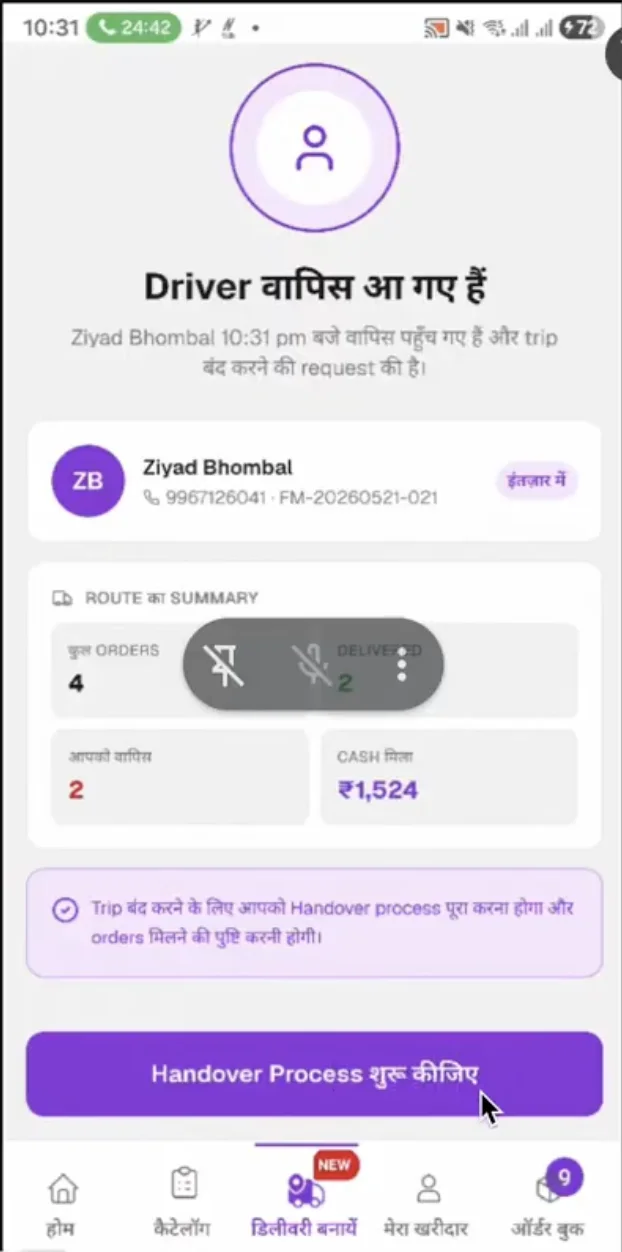
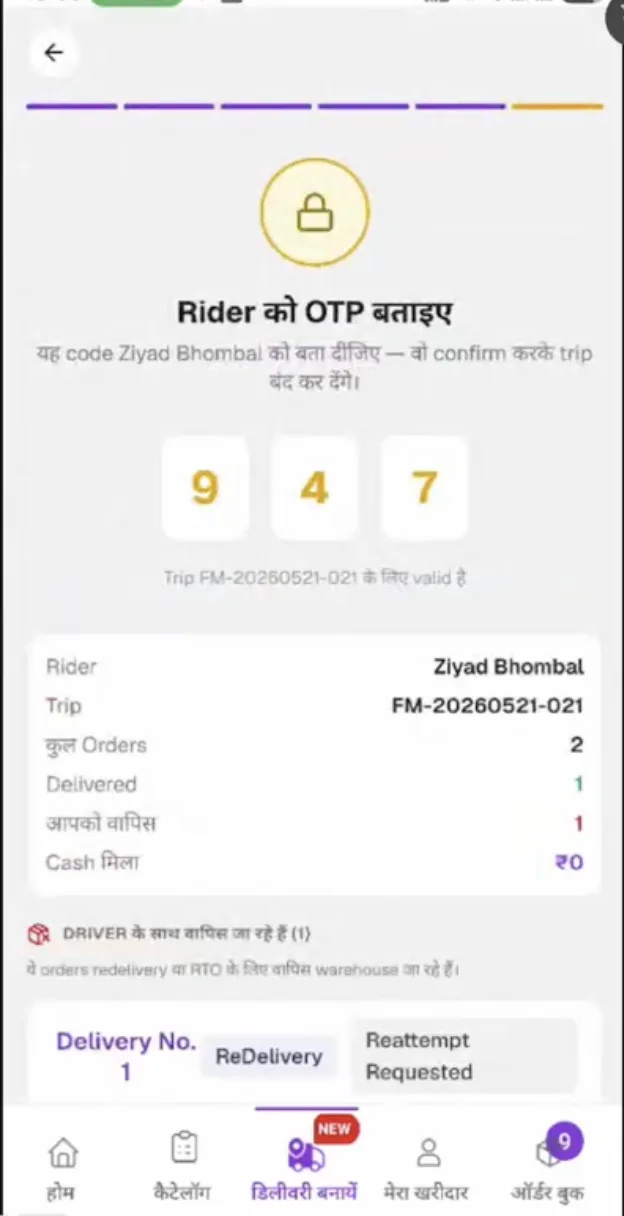
DAAS screens: correct the route and handover captions, add the trip-close OTP and the ops dashboard

diff --git a/src/content/projects.ts b/src/content/projects.ts
@@ -238,10 +238,12 @@ export const projects: Project[] = [
       { src: "/screens/daas-booked.webp", kind: "phone", alt: "Delivery booked confirmation", caption: "Booked: the day, the vehicle, the pickup — confirmed in the app" },
       { src: "/screens/daas-upload-bills.webp", kind: "phone", alt: "Upload bills to process orders", caption: "Upload the invoices — the drop list builds itself" },
       { src: "/screens/daas-driver-bill.webp", kind: "phone", alt: "Driver photographing an invoice", caption: "Driver app — photograph the bill; 17,678 invoices were read this way" },
-      { src: "/screens/daas-driver-drop.webp", kind: "phone", alt: "Driver's drop card with call and directions", caption: "Each drop with a call button, directions, and the amount to collect" },
-      { src: "/screens/daas-driver-otp.webp", kind: "phone", alt: "Handover OTP", caption: "A code both sides hold at every handover — proof on every drop, not only the disputed ones" },
+      { src: "/screens/daas-driver-drop.webp", kind: "phone", alt: "Driver's route: the day's stops in order", caption: "The driver's route: the day's stops in order, re-orderable by drag, a call button for each shop" },
       { src: "/screens/daas-driver-cash.webp", kind: "phone", alt: "Collect payment, cash or online", caption: "Cash, UPI or cheque collected at the shop, matched to the bill" },
-      { src: "/screens/daas-driver-reasons.webp", kind: "phone", alt: "Why is this order undelivered — closed list of reasons", caption: "A failed drop becomes information: a closed list of reasons, tallied for the distributor's sales team" },
+      { src: "/screens/daas-driver-reasons.webp", kind: "phone", alt: "Why is this order undelivered — closed list of reasons", caption: "A failed drop becomes information: a closed list of reasons — shop closed, customer not available, refused, wrong address, payment not ready — tallied for the distributor's sales team" },
+      { src: "/screens/daas-driver-handover.webp", kind: "phone", alt: "End of trip: driver back, route summary, start handover", caption: "End of the trip: orders delivered, orders coming back, cash collected — and the handover to the distributor begins" },
+      { src: "/screens/daas-driver-otp.webp", kind: "phone", alt: "Rider ko OTP bataiye — the code the distributor reads to the driver", caption: "Closing the trip: a code the distributor reads to the driver, so the handover is confirmed by both sides" },
+      { src: "/screens/daas-ops-dashboard.webp", kind: "desktop", alt: "Delivery management dashboard", caption: "The operations dashboard: every trip, every drop and its status — where routes are re-ordered by drag" },
     ],
     cover: { src: "/screens/daas-van-road.webp", kind: "photo", alt: "", caption: "" },
     headline: [
